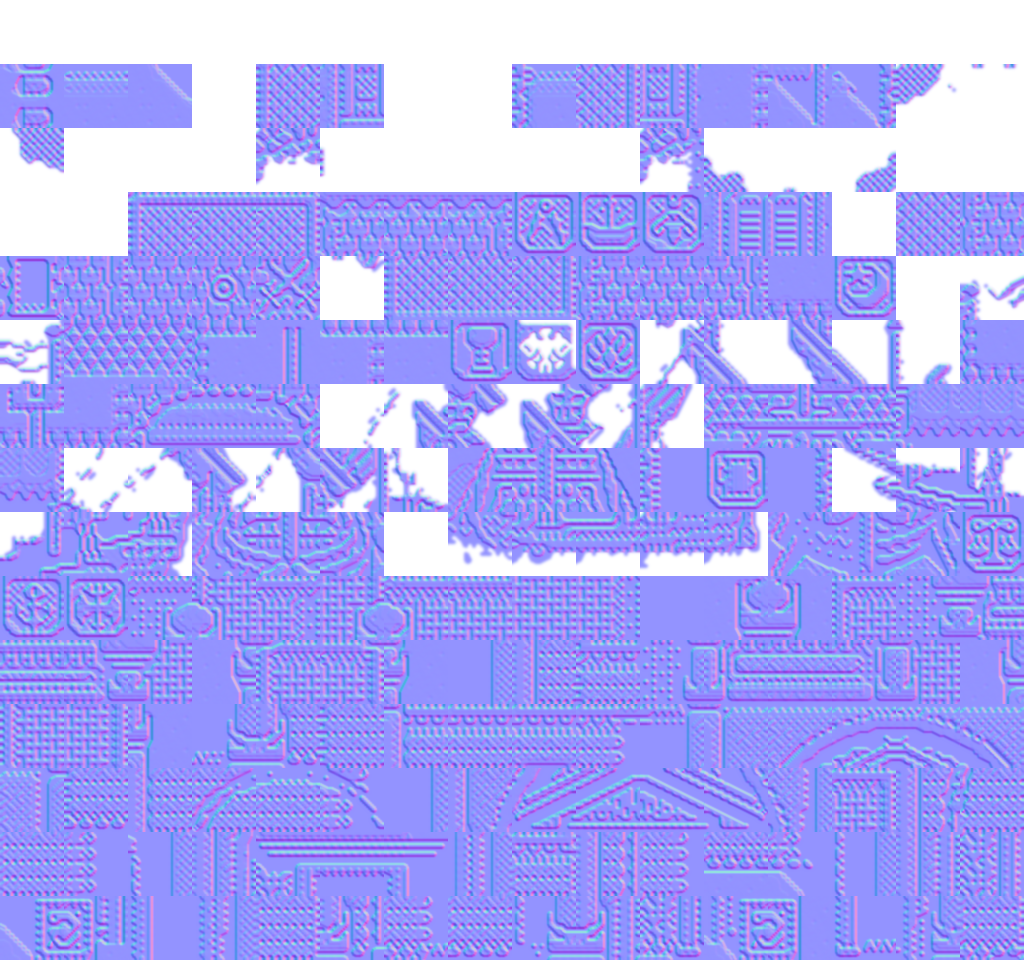
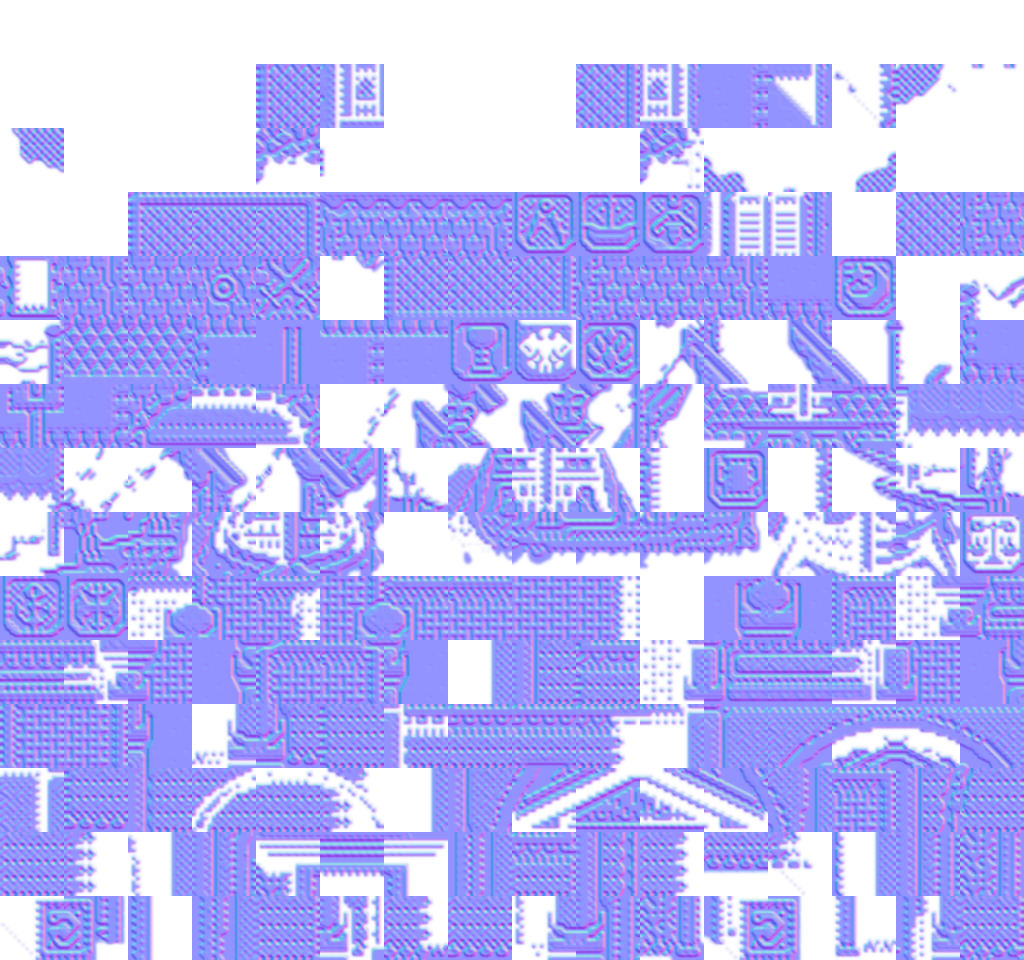
fix(art,hd2d): flatten exterior ground in props/ships/palms/carts/roads and hollow arch doorway voids

diff --git a/tools/build_hd_textures.py b/tools/build_hd_textures.py
@@ -8,6 +8,7 @@
 import json
 import math
 import os
+from collections import deque
 from PIL import Image
 import numpy as np
 from scipy.ndimage import binary_closing, binary_fill_holes, gaussian_filter, label, sobel
@@ -16,6 +17,7 @@ ROOT = os.path.dirname(os.path.dirname(os.path.abspath(__file__)))
 ART_SHEETS = os.path.join(ROOT, "web", "assets", "art", "sheets")
 HD_SHEETS = os.path.join(ROOT, "web", "assets", "art", "hd", "sheets")
 PORTCHIP_JSON = os.path.join(ROOT, "web", "assets", "data", "portchip.json")
+PORTMAP_JSON = os.path.join(ROOT, "web", "assets", "data", "portmap.json")
 
 DAY_PAL_RAW = [
     0, 0, 0,   13, 0, 4,   0, 13, 4,   10, 13, 6,
@@ -296,7 +298,195 @@ def detect_emissive_windows(tile_idx: np.ndarray, t_id: int, p2: int, is_water: 
         em[glass & (fsum >= 4)] = 0.85
     return em
 
-def process_portchip_sheet(set_idx: int, p1: int, p2: int, p3: int, mats):
+def decode_portmap_grid(s: str) -> list[int]:
+    out: list[int] = []
+    for tok in s.split():
+        if "*" in tok:
+            v, n = tok.split("*")
+            out.extend([int(v, 16)] * int(n))
+        else:
+            out.append(int(tok, 16))
+    return out
+
+def compute_portmap_context(meta: dict):
+    """统计每个图块集在真实港内地图中的邻接关系，区分岸边系泊船与陆地建筑/道具周围的开放地面"""
+    pm = json.load(open(PORTMAP_JSON, "r", encoding="utf-8"))
+    chipno = meta["chipNo"]
+    tilesets = meta["tilesets"]
+    water_adj = [set() for _ in range(len(tilesets))]
+    open_edges = [{} for _ in range(len(tilesets))]
+
+    for s, bounds in enumerate(tilesets):
+        _, p1, p2, _ = bounds
+        rgba = np.array(Image.open(os.path.join(ART_SHEETS, f"portchip_{s}.png")).convert("RGBA"))
+        idx = extract_indices(rgba, prefer_map=True)
+        cols = idx.shape[1] // 16
+
+        def get_t(tid: int) -> np.ndarray:
+            r, c = divmod(tid, cols)
+            return idx[r * 16:(r + 1) * 16, c * 16:(c + 1) * 16]
+
+        walk_kind = {}
+        pure_sea_tids = set()
+        for tid in range(idx.shape[0] // 16 * cols):
+            t = get_t(tid)
+            u = set(np.unique(t).tolist())
+            if 9 in u and u.issubset({0, 8, 9, 12}):
+                pure_sea_tids.add(tid)
+            if tid >= p1 or int(np.sum((t == 9) | (t == 12))) >= 40 or int(np.sum(t == 0)) >= 60:
+                continue
+            if u.issubset({13, 14}):
+                walk_kind[tid] = ("grass", {13, 14})
+            elif u.issubset({10, 11, 15, 7}):
+                walk_kind[tid] = ("sand", {10, 11, 15})
+            elif u.issubset({8, 11, 15}) and 11 in u:
+                walk_kind[tid] = ("dither_sand", {8, 11, 15})
+            elif u.issubset({8, 10, 11}) and 10 in u:
+                walk_kind[tid] = ("dither_earth", {8, 10})
+            elif u.issubset({0, 8, 10, 11, 13, 14, 15}):
+                walk_kind[tid] = ("mixed", {10, 11, 13, 14, 15})
+
+        adj_pairs = []  # (tid, ei, nb_tid)
+        for pid, cs in enumerate(chipno):
+            if cs != s or pid >= len(pm["ports"]):
+                continue
+            grid = decode_portmap_grid(pm["ports"][pid])
+            for r in range(96):
+                for c in range(96):
+                    tid = grid[r * 96 + c]
+                    if tid < p1:
+                        continue
+                    for ei, (dr, dc) in enumerate(((-1, 0), (0, 1), (1, 0), (0, -1))):
+                        nr, nc = r + dr, c + dc
+                        if not (0 <= nr < 96 and 0 <= nc < 96):
+                            continue
+                        nb = grid[nr * 96 + nc]
+                        if nb in pure_sea_tids:
+                            water_adj[s].add(tid)
+                        if nb in walk_kind:
+                            k, _ = walk_kind[nb]
+                            nbt = get_t(nb)
+                            nb_edge = set((nbt[15, :] if ei == 0 else (nbt[:, 0] if ei == 1 else (nbt[0, :] if ei == 2 else nbt[:, 15]))).tolist())
+                            if k == "grass":
+                                allowed = {13, 14}
+                            elif k == "sand":
+                                allowed = {10, 11, 15}
+                            elif k == "dither_sand":
+                                allowed = {8, 11, 15}
+                            elif k == "dither_earth":
+                                allowed = {8, 10}
+                            else:
+                                allowed = set()
+                                if {13, 14}.issubset(nb_edge):
+                                    allowed |= {13, 14}
+                                if {11, 15}.issubset(nb_edge):
+                                    allowed |= {10, 11, 15}
+                            if allowed:
+                                open_edges[s].setdefault(tid, {}).setdefault(ei, set()).update(allowed)
+                        elif nb >= p2 and nb not in water_adj[s] and tid not in WALL_PLAQUE_SKIP_SAND.get(s, set()) and nb not in WALL_PLAQUE_SKIP_SAND.get(s, set()):
+                            adj_pairs.append((tid, ei, nb))
+
+        # 多轮传播开放地面边界（例如旱坞船中间的桅杆格 103/115 虽不直接邻接 tile 4，但两侧与 102/104 开放沙地相通）
+        unique_adj = set(adj_pairs)
+        for _ in range(2):
+            changed = False
+            for tid, ei, nb in unique_adj:
+                if tid in water_adj[s] or nb in water_adj[s] or tid < p2:
+                    continue
+                nb_emap = open_edges[s].get(nb)
+                if not nb_emap:
+                    continue
+                nb_arr = get_t(nb)
+                # 检查 nb 朝向 tid 的边缘是否已有开放地面连通（例如从 nb 对侧开放沙地穿行到朝向 tid 的一侧）
+                os_nb, og_nb = extract_outer_ground(nb_arr, s, nb, p2, nb_emap, np.zeros((16, 16), dtype=bool), False)
+                bg_nb = os_nb | og_nb
+                edge_bg_nb = bg_nb[15, :] if ei == 0 else (bg_nb[:, 0] if ei == 1 else (bg_nb[0, :] if ei == 2 else bg_nb[:, 15]))
+                if int(np.sum(edge_bg_nb)) >= 3:
+                    vals = set(nb_arr[15, edge_bg_nb].tolist() if ei == 0 else (nb_arr[edge_bg_nb, 0].tolist() if ei == 1 else (nb_arr[0, edge_bg_nb].tolist() if ei == 2 else nb_arr[edge_bg_nb, 15].tolist())))
+                    cur = open_edges[s].setdefault(tid, {}).setdefault(ei, set())
+                    if not vals.issubset(cur):
+                        cur.update(vals)
+                        changed = True
+            if not changed:
+                break
+    return water_adj, open_edges
+
+# 排除纯米白石膏墙体/招牌图块被误判为沙地（如 s2 城墙、各图集行业招牌/纯墙砖）
+WALL_PLAQUE_SKIP_SAND = {
+    0: {83, 205},
+    1: {53},
+    2: {22, 23, 27, 56, 76, 84, 86, 95, 97, 155, 156, 163, 166, 175, 178},
+    3: {88, 89, 169, 181, 189},
+    4: {44, 45, 46, 47, 110},
+    5: {54, 62, 97},
+    6: {56, 77, 78, 79, 87, 88, 89, 97, 98, 99, 157},
+}
+
+def extract_outer_ground(tile_idx: np.ndarray, set_idx: int, t_id: int, p2: int, edge_map: dict, is_water: np.ndarray, has_water_adj: bool):
+    """从图块邻接步行地面的开放边界向内泛洪，剥离树冠、旱坞船、马车、沙漠斜顶与路缘外围的平地沙地/草地"""
+    outer_sand = np.zeros_like(tile_idx, dtype=bool)
+    outer_grass = np.zeros_like(tile_idx, dtype=bool)
+    if t_id < p2 or np.any(is_water) or not edge_map:
+        return outer_sand, outer_grass
+
+    def flood_group(grp: set[int]) -> tuple[np.ndarray, set[int]]:
+        q = deque()
+        loc = np.zeros_like(tile_idx, dtype=bool)
+        all_a: set[int] = set()
+        for ei, allowed in edge_map.items():
+            if not (grp & allowed):
+                continue
+            all_a |= allowed
+            coords = [(0, x) for x in range(16)] if ei == 0 else ([(y, 15) for y in range(16)] if ei == 1 else ([(15, x) for x in range(16)] if ei == 2 else [(y, 0) for y in range(16)]))
+            run = []
+            for y, x in coords:
+                if int(tile_idx[y, x]) in grp:
+                    run.append((y, x))
+                else:
+                    if len(run) >= 3:
+                        for ry, rx in run:
+                            if not loc[ry, rx]:
+                                loc[ry, rx] = True
+                                q.append((ry, rx))
+                    run = []
+            if len(run) >= 3:
+                for ry, rx in run:
+                    if not loc[ry, rx]:
+                        loc[ry, rx] = True
+                        q.append((ry, rx))
+        while q:
+            cy, cx = q.popleft()
+            for dy, dx in ((-1, 0), (1, 0), (0, -1), (0, 1)):
+                ny, nx = cy + dy, cx + dx
+                if 0 <= ny < 16 and 0 <= nx < 16 and not loc[ny, nx] and int(tile_idx[ny, nx]) in grp:
+                    loc[ny, nx] = True
+                    q.append((ny, nx))
+        return loc, all_a
+
+    # 1) 外围草坪 ({13, 14})：不会出现在纯棕瓦屋顶里（排除无14且10占比过高的棕瓦）
+    mg, ag = flood_group({13, 14})
+    if int(np.sum(mg)) >= 12 and {13, 14}.issubset(ag) and int(np.sum(mg & (tile_idx == 14))) >= 3:
+        outer_grass |= mg
+
+    if t_id in WALL_PLAQUE_SKIP_SAND.get(set_idx, set()):
+        return outer_sand, outer_grass
+
+    # 2) 外围棋盘格砂土/泥地 ({8, 11, 15} 如 set 4 马车/set 3 椰树影, {8, 10} 如 set 5 马匹/篱笆)
+    if not has_water_adj:
+        for grp, core, col_b in (({8, 11, 15}, {8, 11}, 11), ({8, 10}, {8, 10}, 10)):
+            md, ad = flood_group(grp)
+            ok_edge = core.issubset(ad) or (grp == {8, 11, 15} and {11, 15}.issubset(ad) and set_idx in (3, 4))
+            if int(np.sum(md)) >= 12 and ok_edge and int(np.sum(md & (tile_idx == 8))) >= 4 and int(np.sum(md & (tile_idx == col_b))) >= 4:
+                outer_sand |= md
+
+        # 3) 外围明沙 ({10, 11, 15} 如旱坞船、椰子树、沙漠斜屋顶、围栏)
+        ms, a_s = flood_group({10, 11, 15})
+        if int(np.sum(ms)) >= 12 and {11, 15}.issubset(a_s) and int(np.sum(ms & (tile_idx == 11))) >= 4 and int(np.sum(ms & (tile_idx == 15))) >= 4:
+            outer_sand |= ms
+
+    return outer_sand, outer_grass
+
+def process_portchip_sheet(set_idx: int, p1: int, p2: int, p3: int, mats, water_adj_set: set, open_edge_map: dict):
     src_path = os.path.join(ART_SHEETS, f"portchip_{set_idx}.png")
     rgba = np.array(Image.open(src_path).convert("RGBA"))
     idx_all = extract_indices(rgba, prefer_map=True)
@@ -352,12 +542,20 @@ def process_portchip_sheet(set_idx: int, p1: int, p2: int, p3: int, mats):
             is_sand_shadow_tile = (t_id < p2) and (c0_cnt >= 90) and (8 not in uniq_idx) and (13 not in uniq_idx) and uniq_idx.issubset({0, 10, 11, 15})
             is_stone_shadow_tile = (t_id < p1) and (c0_cnt >= 40) and (8 in uniq_idx) and uniq_idx.issubset({0, 8, 10, 11})
             is_ground_shadow_tile = is_grass_shadow_tile or is_sand_shadow_tile or is_stone_shadow_tile
+            is_road_curb = (set_idx == 0) and (t_id in (18, 31, 32, 33, 38, 39, 40))
 
-            # 行1 (t_id >= 16) 且位于 < p2 的多黑线建筑底座/门扇 (如门下半格 22, 23 / 屋顶 26) 归为建筑，但排除纯地面墙影 (21, 27 等)
-            is_arch_walk = (t_id >= 16) and (t_id < p2) and (c0_cnt >= 25) and not np.any(is_water) and not is_ground_shadow_tile
+            # 行1 (t_id >= 16) 且位于 < p2 的多黑线大门下半格/深色屋檐瓦片归为立体建筑，但排除石板路面、台阶与纯地面墙影
+            is_arch_walk = (t_id >= 16) and (t_id < p2) and (c0_cnt >= 85) and not np.any(is_water) and not is_ground_shadow_tile and not is_road_curb
             is_walk = (t_id < p2) and not is_arch_walk
             is_tree_tile = (t_id >= p2) and (int(np.sum((tile_idx == 13) | (tile_idx == 14))) >= 120) and not np.any(is_water) and (c0_cnt >= 8)
             is_shore_tile = (t_id >= p2) and np.any(is_water) and (int(np.sum((tile_idx == 13) | (tile_idx == 14))) >= 18)
+
+            outer_sand, outer_grass = extract_outer_ground(
+                tile_idx, set_idx, t_id, p2, open_edge_map.get(t_id, {}), is_water, t_id in water_adj_set
+            )
+            if is_road_curb:
+                outer_grass = outer_grass | ((tile_idx == 13) | (tile_idx == 14))
+            outer_bg = outer_sand | outer_grass
 
             sem[is_water] = 1
             if is_ground_shadow_tile:
@@ -368,7 +566,7 @@ def process_portchip_sheet(set_idx: int, p1: int, p2: int, p3: int, mats):
                         sem[tile_idx == 10] = 2
                 else:
                     sem[:, :] = 2
-            elif is_walk:
+            elif is_walk and not is_road_curb:
                 is_grass = (tile_idx == 13) | (tile_idx == 14)
                 is_sand = ((tile_idx == 10) | (tile_idx == 11) | (tile_idx == 15) | (tile_idx == 8)) & ~is_water & ~is_grass
                 sem[is_sand] = 2
@@ -380,6 +578,7 @@ def process_portchip_sheet(set_idx: int, p1: int, p2: int, p3: int, mats):
                 border_ids = set(lbl_g[0, :].tolist()) | set(lbl_g[-1, :].tolist()) | set(lbl_g[:, 0].tolist()) | set(lbl_g[:, -1].tolist())
                 border_ids.discard(0)
                 outer_grass = np.isin(lbl_g, list(border_ids))
+                outer_bg = outer_grass
                 sem[outer_grass] = 3
             else:
                 if np.any(is_water):
@@ -387,14 +586,22 @@ def process_portchip_sheet(set_idx: int, p1: int, p2: int, p3: int, mats):
                     blk_pad = np.pad((tile_idx == 0).astype(np.int32), ((1, 1), (1, 1)), mode="edge")
                     blk_near = sum(blk_pad[dy:dy + tile_sz, dx:dx + tile_sz] for dy in range(3) for dx in range(3))
                     sem[((tile_idx == 10) | (tile_idx == 11)) & (blk_near == 0) & ~is_water] = 2
+                if np.any(outer_sand):
+                    sem[outer_sand] = 2
+                if np.any(outer_grass):
+                    sem[outer_grass] = 3
             if not is_ground_shadow_tile:
                 sem[tile_idx == 0] = 0
             sem[is_water] = 1
 
-            # 1) Albedo: 地面、海岸草坡与树格使用草地色盘，其余实体建筑使用建筑色盘（含门下半格 22/23）
+            # 1) Albedo: 地面、海岸草坡与树格使用地面色盘；道具/船/沙漠屋顶的外围裸露地面也使用地面色盘以无缝衔接铺石
             pairs = GROUND_DITHER_PAIRS if (is_walk or is_shore_tile or is_tree_tile) else ARCH_DITHER_PAIRS
             tile_pal = MODERN_GROUND_PAL if (is_walk or is_tree_tile or is_shore_tile) else MODERN_ARCH_PAL
-            base_16 = dedither_tile_rgb(tile_idx, tile_pal, pairs, is_water=is_water, wrap_edges=(is_walk and t_id < p1 and not is_ground_shadow_tile))
+            base_16 = dedither_tile_rgb(tile_idx, tile_pal, pairs, is_water=is_water, wrap_edges=(is_walk and t_id < p1 and not is_ground_shadow_tile and not is_road_curb))
+            if not (is_walk or is_tree_tile or is_shore_tile) and np.any(outer_bg):
+                ext_pairs = GROUND_DITHER_PAIRS | {(8, 11), (11, 8), (8, 10), (10, 8)}
+                base_ext = dedither_tile_rgb(tile_idx, MODERN_GROUND_PAL, ext_pairs, is_water=is_water, wrap_edges=False)
+                base_16 = np.where(outer_bg[:, :, None], base_ext, base_16)
             if is_ground_shadow_tile and not is_stone_shadow_tile:
                 if is_grass_shadow_tile:
                     sunlit_grass = MODERN_GROUND_PAL[13] * 0.48 + MODERN_GROUND_PAL[14] * 0.52
@@ -407,13 +614,13 @@ def process_portchip_sheet(set_idx: int, p1: int, p2: int, p3: int, mats):
                 # 153 等水上影波纹格：只保留柔和深暗水波层次，不生成刺眼黑刺团块
                 dark_ripple = (tile_idx == 0) | (tile_idx == 8)
                 base_16[dark_ripple] = MODERN_GROUND_PAL[9] * 0.72 + np.array([4.0, 12.0, 28.0], dtype=np.float32)
-            if is_walk or np.any(is_water) or is_tree_tile:
+            if is_walk or np.any(is_water) or is_tree_tile or np.any(outer_bg):
                 smooth_16 = base_16.copy()
                 for m_val, alpha, sig in ((1, 0.88, 0.95), (2, 0.85, 0.85), (3, 0.78, 0.78)):
                     m = (sem == m_val).astype(np.float32)
                     if np.sum(m) < 4:
                         continue
-                    mode = "wrap" if (is_walk and t_id < p1 and not is_ground_shadow_tile) else "nearest"
+                    mode = "wrap" if (is_walk and t_id < p1 and not is_ground_shadow_tile and not is_road_curb) else "nearest"
                     denom = np.maximum(1e-4, gaussian_filter(m, sigma=sig, mode=mode))
                     for ch in range(3):
                         num = gaussian_filter(base_16[:, :, ch] * m, sigma=sig, mode=mode)
@@ -481,19 +688,29 @@ def process_portchip_sheet(set_idx: int, p1: int, p2: int, p3: int, mats):
                 c = binary_closing(p, structure=np.ones((k * 2 - 1, k * 2 - 1), dtype=bool))
                 return c[k:-k, k:-k]
 
-            if (is_walk and not is_arch_walk) or pure_water_ripple_tile:
+            # 大面积纯黑门洞/隧道空腔 (面积 >= 48px) 属于凹陷通道而非向前凸出的实体墙，高程清零避免往路面投黑块
+            void_16 = np.zeros_like(tile_idx, dtype=bool)
+            if not is_ground_shadow_tile and not pure_water_ripple_tile and c0_cnt >= 48:
+                lbl_v, n_v = label(tile_idx == 0)
+                for vid in range(1, n_v + 1):
+                    vm = lbl_v == vid
+                    if int(np.sum(vm)) >= 48:
+                        void_16 |= vm
+            void_64 = np.repeat(np.repeat(void_16, 4, axis=0), 4, axis=1)
+
+            if (is_walk and not is_arch_walk) or pure_water_ripple_tile or is_road_curb:
                 tile_elev = np.zeros_like(micro_height)
             elif is_tree_tile:
                 # 仅树木剪影内部填洞隆起（绝不到图块方框边！）
-                tree_raw = (sem64 == 4) | (sem64 == 0)
+                tree_raw = ((sem64 == 4) | (sem64 == 0)) & ~void_64
                 tree_filled = binary_fill_holes(tree_raw) | tree_raw
                 tile_elev = gaussian_filter(np.where(tree_filled, 0.72, 0.0).astype(np.float32), sigma=1.4, mode="nearest")
             elif t_id < p2 and not is_arch_walk:
-                solid_m = edge_close((sem64 == 4) | (sem64 == 0), 4) & (sem64 != 1)
+                solid_m = edge_close(((sem64 == 4) | (sem64 == 0)) & ~void_64, 4) & (sem64 != 1) & ~void_64
                 tile_elev = gaussian_filter(np.where(solid_m, 0.34, 0.0).astype(np.float32), sigma=1.4, mode="nearest")
             else:
-                caster_raw = (sem64 == 4) | (sem64 == 0)
-                solid_m = edge_close(caster_raw, 4) & (sem64 != 1)
+                caster_raw = ((sem64 == 4) | (sem64 == 0)) & ~void_64
+                solid_m = edge_close(caster_raw, 4) & (sem64 != 1) & ~void_64
                 base_e = np.where(solid_m, 0.85, 0.0)
                 tile_elev = gaussian_filter(base_e.astype(np.float32), sigma=1.4, mode="nearest")
 
@@ -582,10 +799,11 @@ def process_chars_sheet():
 
 def main():
     meta = json.load(open(PORTCHIP_JSON, "r", encoding="utf-8"))
+    water_adj, open_edges = compute_portmap_context(meta)
     mats = make_tactile_materials(64)
     for s, bounds in enumerate(meta["tilesets"]):
         _, p1, p2, p3 = bounds
-        out_p = process_portchip_sheet(s, p1, p2, p3, mats)
+        out_p = process_portchip_sheet(s, p1, p2, p3, mats, water_adj[s], open_edges[s])
         print(f"Generated PBR set for portchip_{s}: {os.path.relpath(out_p, ROOT)} (+ _nrm / _mat)")
     out_c = process_chars_sheet()
     print(f"Generated PBR set for chars: {os.path.relpath(out_c, ROOT)} (+ _nrm)")
